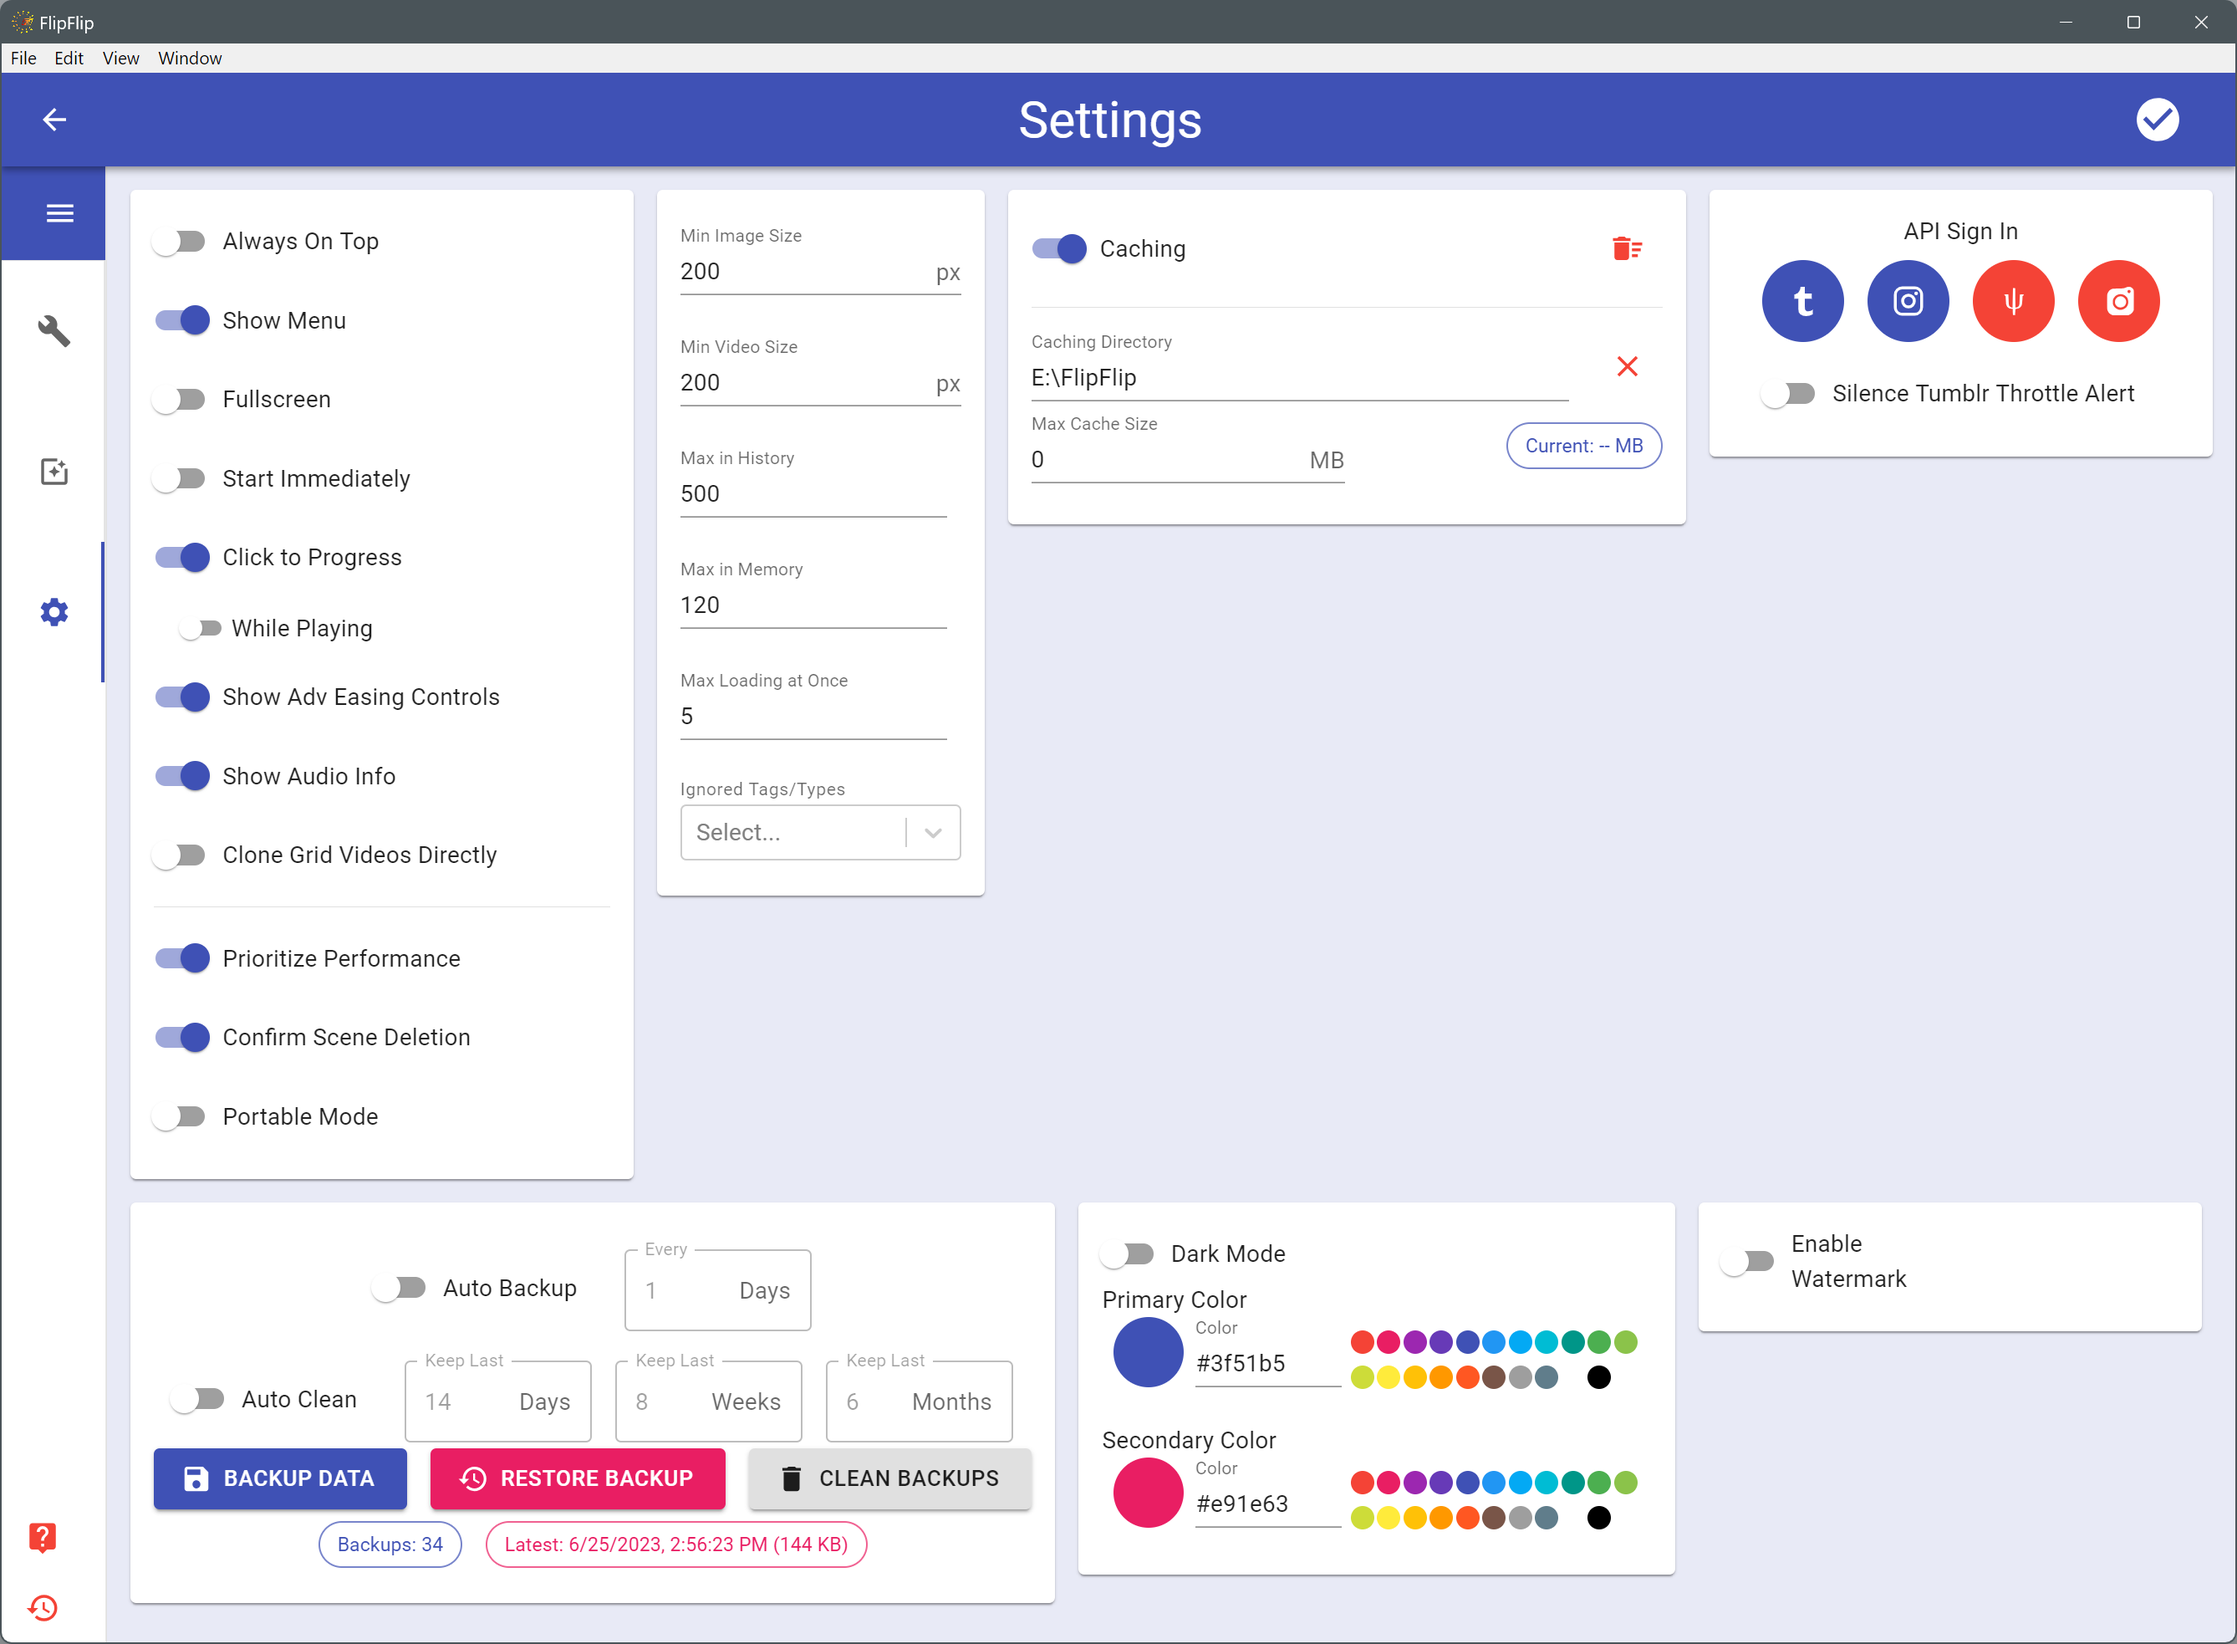
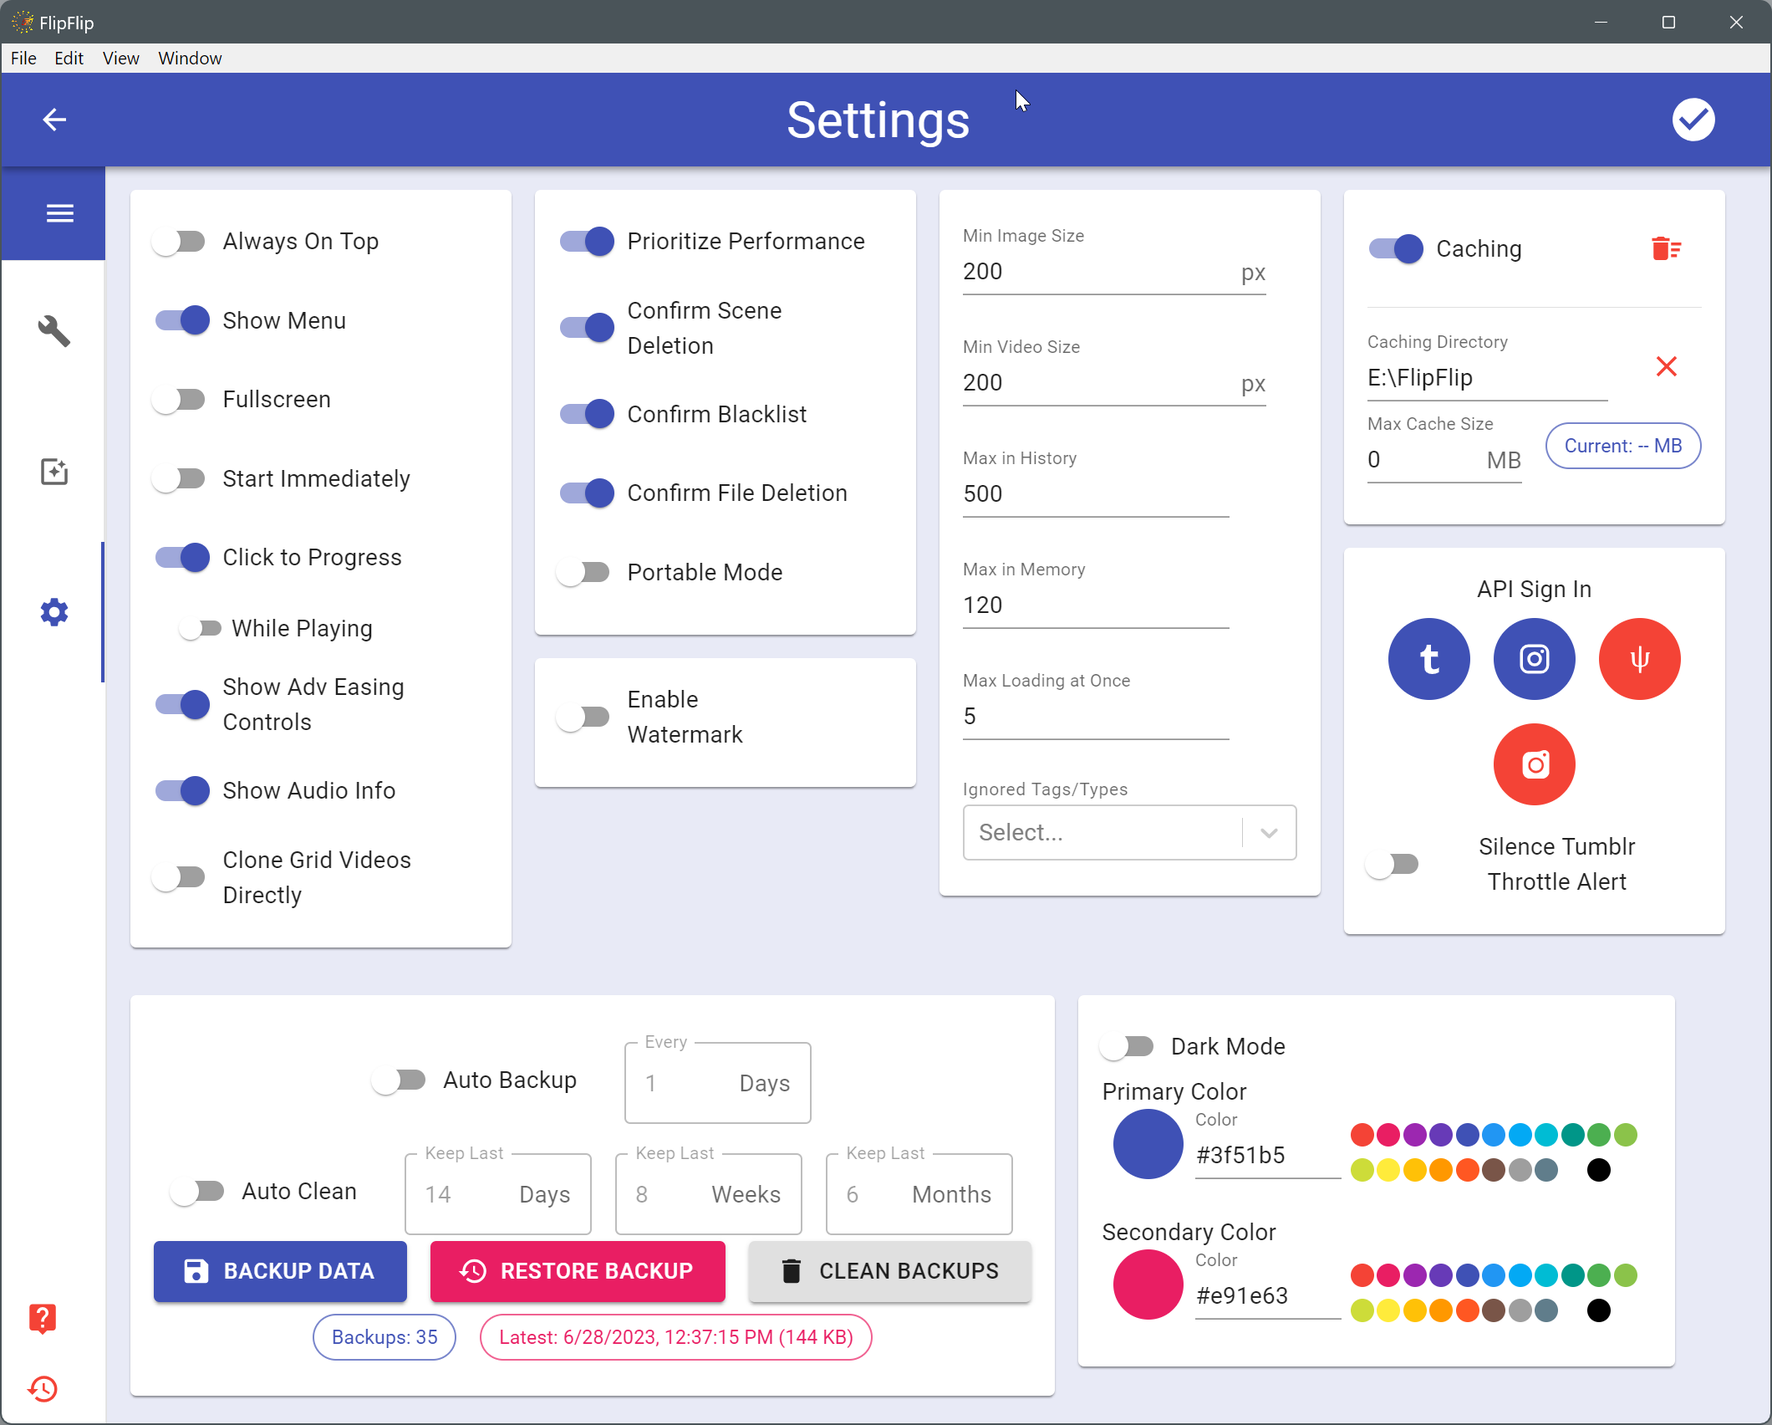
Doc updates

diff --git a/src/renderer/components/Meta.tsx b/src/renderer/components/Meta.tsx
@@ -132,10 +132,8 @@ export default class Meta extends React.Component {
   //      Be able to right click on grid scenes as overlay
   //      Be able to modify source tags as popup during playback
   //      Generate different sources even for same scenes in grid
-  //      Add option to disable "delete file" prompt
   //      Add configurable privacy screen with shortcut and ability to set image
   //      Add minimize shortcut key in same vain?
-  //      AutoHide cursor isn't working on secondary monitor
   render() {
     const scene = actions.getActiveScene(this.state);
     const grid = actions.getActiveGrid(this.state);

diff --git a/src/renderer/components/player/PlayerBars.tsx b/src/renderer/components/player/PlayerBars.tsx
@@ -1271,7 +1271,10 @@ class PlayerBars extends React.Component {
     const url = img.src;
     const isFile = url.startsWith('file://');
     const path = urlToPath(url);
-    this.onBlacklistFile(source, isFile ? path : url);
+    const type = getSourceType(source);
+    if ((!isFile && type != ST.video && type != ST.playlist) || type == ST.local) {
+      this.onBlacklistFile(source, isFile ? path : url);
+    }
   }
 
   playPause() {

diff --git a/docs/config.md b/docs/config.md
@@ -35,7 +35,9 @@ canvas. This may improve video framerate, but will remove absolute synchronizati
 * `Prioritize Performance/Loading`
   * `Prioritize Performance` - This mode will prioritize smooth playback, while taking a longer time to load
   * `Prioritize Loading` - This mode will prioritize loading times, but may cause stuttering during playback.
-* `Confirm Scene Delete` - Disabling this will hide the confirmation dialog when deleting a Scene.
+* `Confirm Scene Deletion` - Disabling this will hide the confirmation dialog when deleting a Scene.
+* `Confirm Blacklist` - Disabling this will hide the confirmation dialog when blacklisting a file.
+* `Confirm File Deletion` - Disabling this will hide the confirmation dialog when deleting a file.
 * `Portable Mode` - Portable Mode will save a copy of your data in the same directory as the FlipFlip executable, 
 as well as the default save path. This needs to be enabled on each machine.
   * `Disable Local Saves` - When this is on, FlipFlip will _only_ save its data to the folder with the FlipFlip 
@@ -154,6 +156,29 @@ on your computer and is never shared with anyone or sent to any server (besides 
 * You should see a Success! message
   * If you see an error message, FlipFlip was not able to establish connection to the server or was unable to authenticate your user.
 
+## Watermark
+Enabling this will display a custom watermark during FlipFlip playback. In addition to the watermark text, you can also
+select which corner it appears in, as well as font family, size, and color.
+
+You can include the following special variables in your watermark text, and they will be automatically replaced
+with the relevant information:
+
+| Variable Code    | Replaced By                                         |
+|:----------------:|:---------------------------------------------------:|
+| `{scene_name}`   | Name of the current **Scene**                       |
+| `{source_url}`   | URL of the current **Source**                       |
+| `{source_name}`  | Name of the current **Source**                      |
+| `{post_url}`     | URL of the currently displayed image's **Post**     |
+| `{file_url}`     | URL of the currently displayed **File**             |
+| `{file_name}`    | Name of the currently displayed **File**            |
+| `{audio_url}`    | URL of the currently playing **Audio**              |
+| `{audio_name}`   | Name of the currently playing **Audio**             |
+| `{audio_title}`  | Title (metadata) of the currently playing **Audio** |
+| `{audio_artist}` | Arist (metadata) of the currently playing **Audio** |
+| `{audio_album}`  | Album (metadata) of the currently playing **Audio** |
+
+?> A source/file/audio "Name" is the shortened name parsed from the full "URL". (e.g. `https://www.reddit.com/r/AnimalsBeingDerps/` becomes `AnimalsBeingDerps`)
+
 ## Backup
 Backup your FlipFlip data or restore from a previous backup.
 
@@ -179,26 +204,3 @@ use your configured rules. If Auto-Clean is off, you can choose how many of the 
 The FlipFlip UI allows you to customize the **Primary** and **Secondary** colors. You can also toggle Dark Mode on/off here
 
 <img src="doc_images/flipflip_colors.png" alt="FlipFlip Colors" class="col-xs-10 col-xl-7">
-
-## Watermark
-Enabling this will display a custom watermark during FlipFlip playback. In addition to the watermark text, you can also
-select which corner it appears in, as well as font family, size, and color.
-
-You can include the following special variables in your watermark text, and they will be automatically replaced 
-with the relevant information:
-
-| Variable Code    | Replaced By                                         |
-|:----------------:|:---------------------------------------------------:|
-| `{scene_name}`   | Name of the current **Scene**                       |
-| `{source_url}`   | URL of the current **Source**                       |
-| `{source_name}`  | Name of the current **Source**                      |
-| `{post_url}`     | URL of the currently displayed image's **Post**     |
-| `{file_url}`     | URL of the currently displayed **File**             |
-| `{file_name}`    | Name of the currently displayed **File**            |
-| `{audio_url}`    | URL of the currently playing **Audio**              |
-| `{audio_name}`   | Name of the currently playing **Audio**             |
-| `{audio_title}`  | Title (metadata) of the currently playing **Audio** |
-| `{audio_artist}` | Arist (metadata) of the currently playing **Audio** |
-| `{audio_album}`  | Album (metadata) of the currently playing **Audio** |
-
-?> A source/file/audio "Name" is the shortened name parsed from the full "URL". (e.g. `https://www.reddit.com/r/AnimalsBeingDerps/` becomes `AnimalsBeingDerps`)

diff --git a/docs/playing_scene.md b/docs/playing_scene.md
@@ -25,8 +25,8 @@ While a Scene is playing, you can right click on an image to get more informatio
 * Press Ctrl+C or select "Copy Image" to attempt to copy the image itself to the clipboard. 
   * _Image image cannot be copied to clipboard, path will be copied instead_ 
 * You can choose to open the source or image directly.
- * _Will use your system's default app for opening that type of link._
-* If this image is not from the cache, you can add it to the blacklist for its source. 
+  * _Will use your system's default app for opening that type of link._
+* If this image is not from the cache, you can add it to the blacklist for its source.
 * If this image is a local file, you are given options to view it in Explorer/Finder or delete it from the system. 
   * _Handy for pruning images you don't want in FlipFlip._ 
 * If this image is a remote file and you have enabled caching, a link to the caching directory is also provided.
@@ -58,12 +58,14 @@ Use the arrow keys (← / →) to navigate through playback history. Use `Space`
 | Space         | Play/Pause                  |
 | ← →           | Navigate History            |
 | Shift + Space | Play/Pause Video            |
-| Shift + ← →   | Back/Forward 15sec of Video |
+| Shift + ← →   | Back/Forward N sec of Video |
+| Shift + ↑ ↓   | Volume Up/Down              |
 | Mouse Wheel   | Volume Up/Down              |
 | [ ]           | Navigate Tagging            |
 | Esc           | Exit Scene                  |
 | Del           | Delete Image                |
 | Ctrl+C        | Copy Image/Path             |
+| Ctrl+B        | Blacklist File              |
 | Ctrl+F        | Toggle Fullscreen           |
 | Ctrl+T        | Toggle Always On Top        |
 | Ctrl+G        | Toggle Menu Bar             |

diff --git a/docs/changelog.md b/docs/changelog.md
@@ -3,17 +3,24 @@
 - Upgrade UI to MUIv5
 - Upgrade 3rd parties dependencies
 - Add ability to scrape and download a particular source (BETA)
+- Allow changes in Script Library to propagate to scripts in Scenes
 - Add ability to globally ignore certain tags/types during scene generation
+- Add option to disable file delete dialog
+- Add option to disable file blacklist dialog
 - Add ability to set video skip rate
-- Improve recent picture grid layout
 - Add M4V support
 - Add keyboard shortcut for video volume
+- Add keyboard shortcut for blacklist file
 - Change nextSceneTime top use ms instead of sec
-- Leave Video Controls section visible in sidebar (avoid quick flashing of controls during playback)
 - Add support for displaying and linking to media's post URL
 - Add safebooru to list of supported boorus
-- Removed support for Reddit/Twitter
+- Add support for Saved Instagram feed
 - Properly show comment linebreaks in Audio tooltips
+- Improve recent picture grid layout
+- Remove Google Analytics
+- Removed support for Reddit/Twitter
+- Leave Video Controls section visible in sidebar (avoid quick flashing of controls during playback)
+- Fix bug with Hydrus scraper sometimes not returning the full set of files
 - Fix CaptionScriptor bugs
 - Fix bug with manual scene generation when auto-regeneration is enabled
 - Fix bug with strict ordering
@@ -22,6 +29,7 @@
 - Fix bug with video timestamp not showing in proper color when not in dark mode
 - Fix bug with storeAudio function in caption scripts
 - Fix bug with caption scripts that only play audio
+- Fix bug with caption playback when using Next Scene
 
 ## 3.2.1 <small>(08/06/2022)</small>
 - Add support for Luscious sources

diff --git a/docs/sources.md b/docs/sources.md
@@ -66,8 +66,8 @@ alt="Options" width="20" height="20">
   * This will only show up for certain types of sources:
   * _**Local** - toggle whether to treat inner directories as if they were their own sources_
   * _**Video** - specify a subtitle file_
-  * _**Reddit** - specify feed for subreddits (i.e. "Hot", "Top", "New", etc.)_
-  * _**Twitter** - include/exclude retweets and replies_
+  * ~~_**Reddit** - specify feed for subreddits (i.e. "Hot", "Top", "New", etc.)_~~
+  * ~~_**Twitter** - include/exclude retweets and replies_~~
 * To edit the blacklist for a source, click the <img style="vertical-align: -5px" src="doc_icons/blacklist.svg" 
 alt="Blacklist" width="20" height="20">
   * _This will only appear for sources which have a blacklist._
@@ -106,7 +106,7 @@ local video/playlist file, add a `Local video/playlsit` and choose the video(s) 
 #### Currently Supported Remote Sources
 
 * <img style="vertical-align: -2px" src="doc_icons/tumblr.svg" alt="Tumblr" width="15" height="15"> Tumblr Blog
-* <img style="vertical-align: -2px" src="doc_icons/instagram.svg" alt="Instagram" width="15" height="15"> Instagram Profile
+* <img style="vertical-align: -2px" src="doc_icons/instagram.svg" alt="Instagram" width="15" height="15"> Instagram Profile/Saved Feed
 * <img style="vertical-align: -2px" src="doc_icons/imgur.svg" alt="Imgur" width="15" height="15"> Imgur Album
 * <img style="vertical-align: -2px" src="doc_icons/deviantart.svg" alt="DeviantArt" width="15" height="15"> DeviantArt User
 * <img style="vertical-align: -2px; margin-right: 5px" src="doc_icons/imagefap.png" alt="ImageFap" width="15" height="15">ImageFap Gallery/Organizer

diff --git a/docs/options.md b/docs/options.md
@@ -116,6 +116,7 @@ This setting overrides Scene timing specifically for videos.
 Videos also have a number of other settings:
 * **Video Speed** - Choose the playback speed of videos.
 * **Random Speed** - Choose to play videos at random speeds and specify the range of speeds.
+* **Video Skip Rate** - Choose the rate at which videos skip forward/backwards.
 * **Start at Random Time** - Starts videos at a random timestamp (videos start from beginning by default).
 * **Continue Videos** - Continue videos from last timestamp during this slideshow (videos restart by default).
 * **Use Clips** - Choose to use only [video clips](clips.md) or the entire video.

diff --git a/docs/README.md b/docs/README.md
@@ -6,7 +6,7 @@
 #### [Latest Release](https://github.com/ififfy/flipflip/releases/latest)
 
 ## Features
-* Local files as well as Tumblr, Reddit, Twitter, Instagram, Imgur, DeviantArt, Booru & More
+* Local files as well as Tumblr, ~~Reddit~~, ~~Twitter~~, Instagram, Imgur, DeviantArt, Booru & More
 * Animated GIF and video support
 * Grid view with cloneable grid cells
 * Multiple windows

diff --git a/Readme.md b/Readme.md
@@ -18,7 +18,7 @@
 * **[Subreddit](https://www.reddit.com/r/flipflip/)**
 
 ## Features
-* Local files as well as Tumblr, Reddit, Twitter, Instagram, Imgur, DeviantArt, Booru & More
+* Local files as well as Tumblr, ~~Reddit~~, ~~Twitter~~, Instagram, Imgur, DeviantArt, Booru & More
 * Animated GIF and video support
 * Grid view with cloneable grid cells
 * Multiple windows
